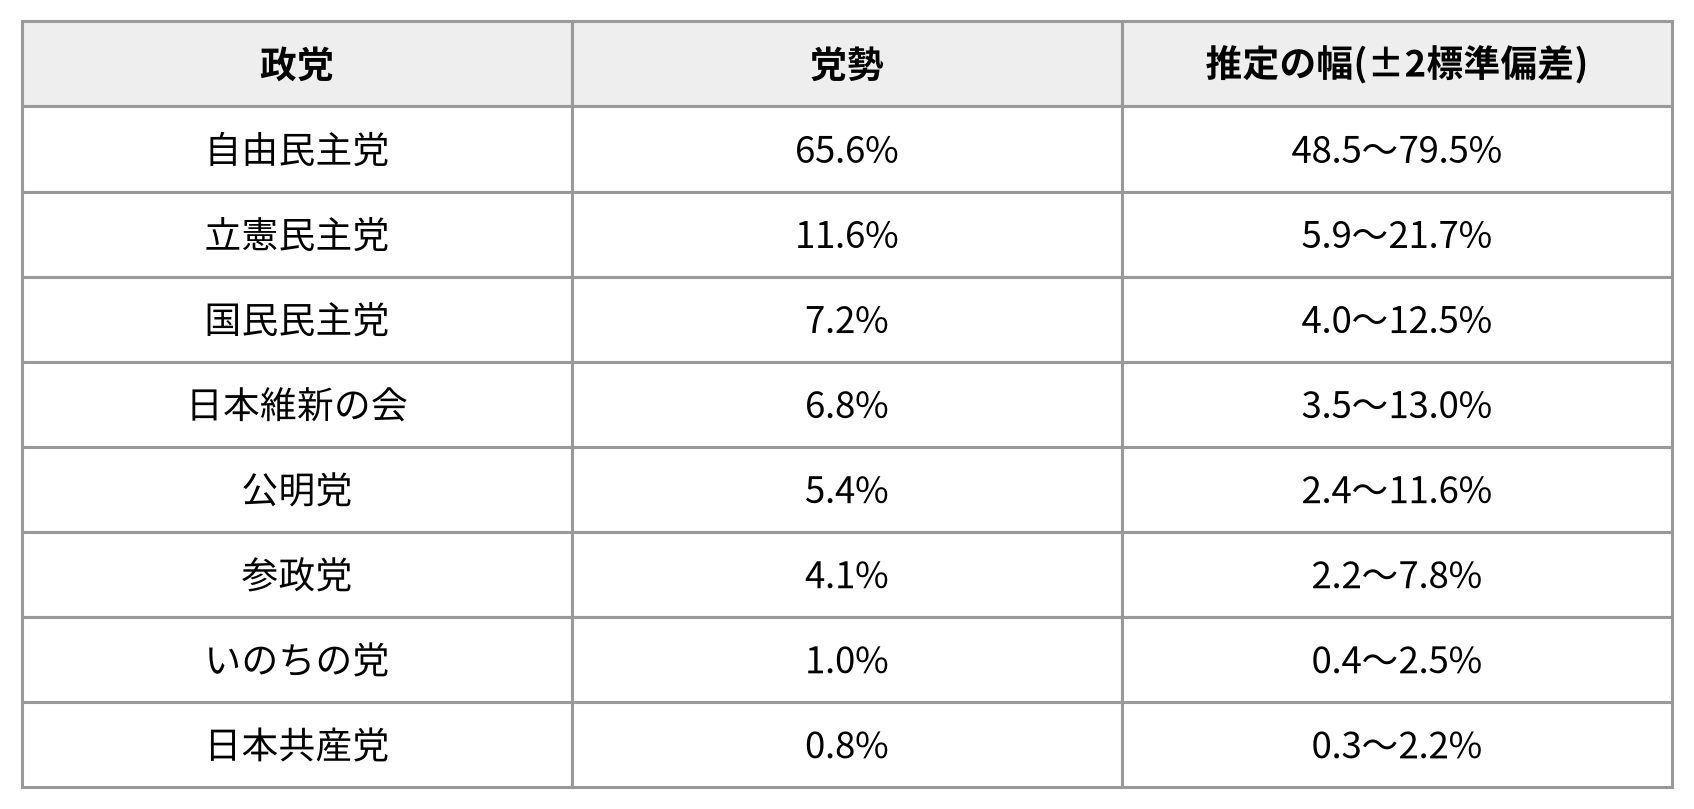
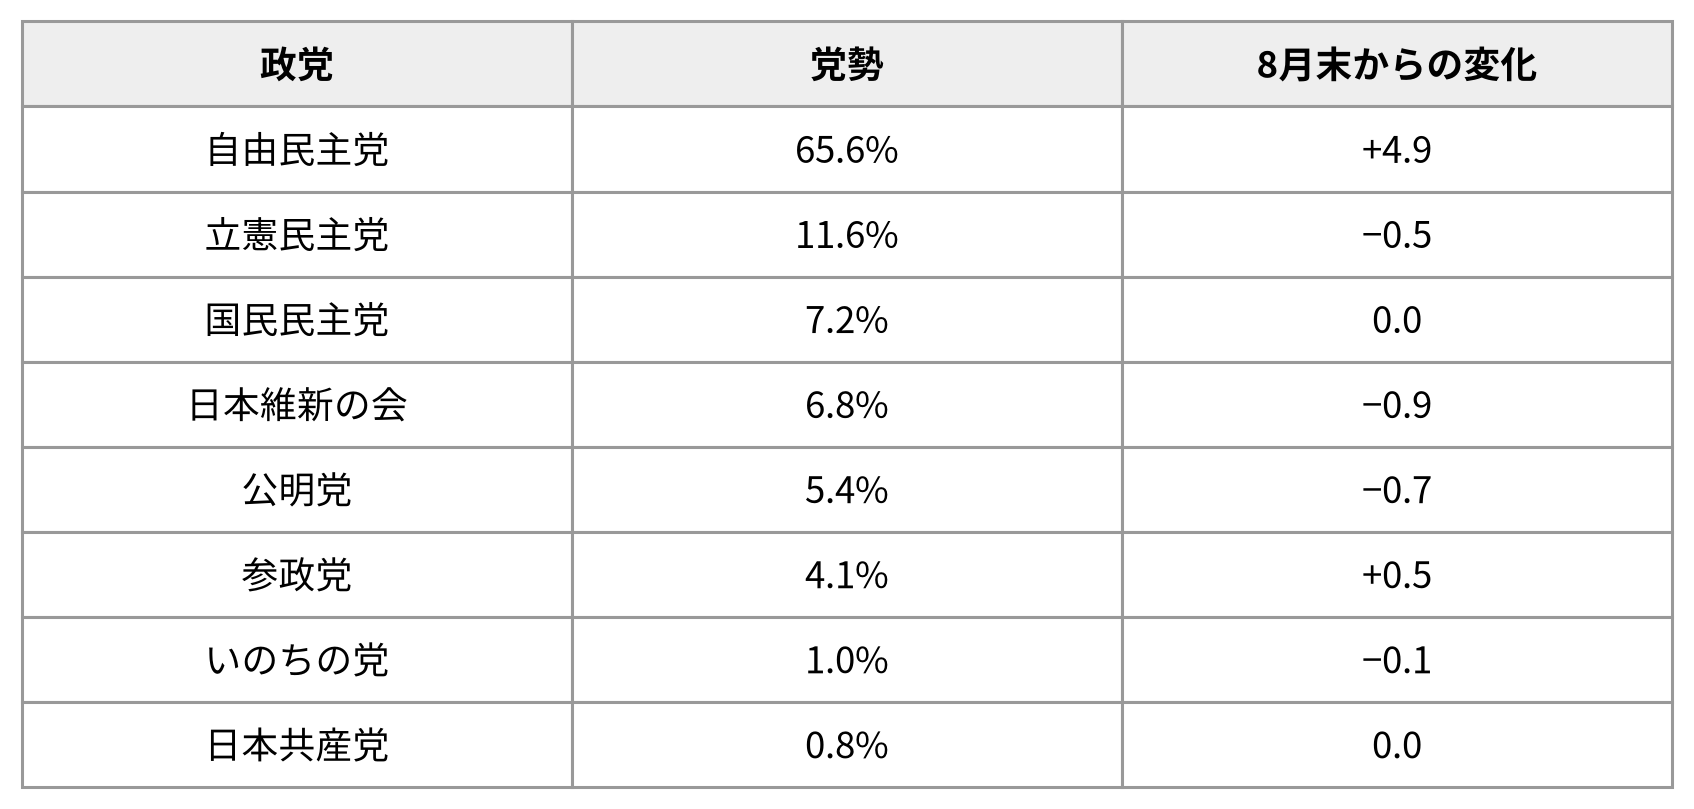
記事の表1を8月末からの変化に差し替え、公開版に合わせて著作権の節を加える

diff --git a/notes/trend_v2_draft.md b/notes/trend_v2_draft.md
@@ -41,21 +41,23 @@ v2のいちばんの売りは、当たり具合を確かめてあることです
 ![図1](images/trend_v2.png)
 *図1: 党勢指数v2の推移(1段目、その月までの選挙による値)、党勢の動きの選挙の種類ごとの内訳(2段目)、首相の在任期間(最下段)*
 
-1段目は各党の党勢を、衆院の議席率の尺度で同じ軸に描いたものです。v1と違い、政党どうしの高さを比べられます。各月の値は、過去の選挙だけからオンライン推定したものです。線は各党の最初の衆院選から描いています。それより前は、衆院の尺度に合わせる手がかりがないからです。2026年9月末の値は表1のとおりです。
+1段目は各党の党勢を、衆院の議席率の尺度で同じ軸に描いたものです。v1と違い、政党どうしの高さを比べられます。各月の値は、過去の選挙だけからオンライン推定したものです。線は各党の最初の衆院選から描いています。それより前は、衆院の尺度に合わせる手がかりがないからです。2026年9月末の値と8月末からの変化は表1のとおりです。
 
-| 政党 | 党勢 | 推定の幅(±2標準偏差) |
+| 政党 | 党勢 | 8月末からの変化 |
 |---|---|---|
-| 自由民主党 | 65.6% | 48.5〜79.5% |
-| 立憲民主党 | 11.6% | 5.9〜21.7% |
-| 国民民主党 | 7.2% | 4.0〜12.5% |
-| 日本維新の会 | 6.8% | 3.5〜13.0% |
-| 公明党 | 5.4% | 2.4〜11.6% |
-| 参政党 | 4.1% | 2.2〜7.8% |
-| いのちの党 | 1.0% | 0.4〜2.5% |
-| 日本共産党 | 0.8% | 0.3〜2.2% |
-*表1: 政党別の党勢指数v2(2026年9月末、衆院の議席率の尺度、その月までの選挙による値)*
+| 自由民主党 | 65.6% | +4.9 |
+| 立憲民主党 | 11.6% | −0.5 |
+| 国民民主党 | 7.2% | 0.0 |
+| 日本維新の会 | 6.8% | −0.9 |
+| 公明党 | 5.4% | −0.7 |
+| 参政党 | 4.1% | +0.5 |
+| いのちの党 | 1.0% | −0.1 |
+| 日本共産党 | 0.8% | 0.0 |
+*表1: 政党別の党勢指数v2(2026年9月末、衆院の議席率の尺度、その月までの選挙による値)と8月末からの変化(ポイント)*
 
-目を引くのは立憲民主党です。支持率(2.9%)では国民民主党や参政党を下回り、2026年衆院選でも当選者の出身で数えて21議席(4.6%)にとどまりました。それでも地方選挙では見込みどおりの結果を出し続けていて、党勢は衆院選の直後の8.6%から12%前後まで戻っています。地方の地盤は、野党の中でまだ最も厚いと言えます。ただ、その地盤は国政の結果に結びついていません。2026年衆院選を隠して地方選挙から推定すると26.3%になり、実際の4.6%と大きく食い違いました。また、国民民主党(7.2%)や日本維新の会(6.8%)とは推定の幅も重なっているため、党勢では野党第一党とまでは言えません。
+9月は自民党が4.9ポイント上がりました。9月13日の沖縄県の市町村議会選挙で見込みを大きく上回ったためで、宜野湾市議選だけで2.1ポイント押し上げています。
+
+目を引くのは立憲民主党です。支持率(2.9%)では国民民主党や参政党を下回り、2026年衆院選でも当選者の出身で数えて21議席(4.6%)にとどまりました。それでも地方選挙では見込みどおりの結果を出し続けていて、党勢は衆院選の直後の8.6%から12%前後まで戻っています。地方の地盤は、野党の中でまだ最も厚いと言えます。ただ、その地盤は国政の結果に結びついていません。2026年衆院選を隠して地方選挙から推定すると26.3%になり、実際の4.6%と大きく食い違いました。また、国民民主党(7.2%)や日本維新の会(6.8%)とは推定の幅(図2)も重なっているため、党勢では野党第一党とまでは言えません。
 
 ![図2](images/trend_v2_by_party.png)
 *図2: 政党別の党勢指数v2。帯は推定の幅(±2標準偏差)、●は衆院選、□は参院選(衆院の尺度に換算)、×はその選挙を隠して推定した値*
@@ -89,6 +91,10 @@ v2では党勢の動きをランダムウォーク、つまり過去の動きか
 政党支持率との比較(図3)も毎月続けます。選挙から推定した党勢と世論調査の支持率がどこで食い違うかを見ることで、今回の立憲民主党のように、地方の地盤と有権者の気分のずれが見えてきます。
 
 モデルの詳しい定義と検証は[設計文書](https://github.com/hrkimura/seiryoku-shisu/blob/master/notes/trend_model.pdf)に、算出コードは[GitHub](https://github.com/hrkimura/seiryoku-shisu)にあります。
+
+## 著作権について
+
+算出コードはMITライセンスで公開し、自由に使ってもらって構いません。ただしこの記事や設計文書など、文章そのものの著作権は放棄していません。
 
 ## AI活用について
 

diff --git a/notes/trend_v2_draft_for_note.md b/notes/trend_v2_draft_for_note.md
@@ -41,12 +41,14 @@ v2のいちばんの売りは、当たり具合を確かめてあることです
 [ここに画像: trend_v2.png]
 [キャプション: 図1: 党勢指数v2の推移(1段目、その月までの選挙による値)、党勢の動きの選挙の種類ごとの内訳(2段目)、首相の在任期間(最下段)]
 
-1段目は各党の党勢を、衆院の議席率の尺度で同じ軸に描いたものです。v1と違い、政党どうしの高さを比べられます。各月の値は、過去の選挙だけからオンライン推定したものです。線は各党の最初の衆院選から描いています。それより前は、衆院の尺度に合わせる手がかりがないからです。2026年9月末の値は表1のとおりです。
+1段目は各党の党勢を、衆院の議席率の尺度で同じ軸に描いたものです。v1と違い、政党どうしの高さを比べられます。各月の値は、過去の選挙だけからオンライン推定したものです。線は各党の最初の衆院選から描いています。それより前は、衆院の尺度に合わせる手がかりがないからです。2026年9月末の値と8月末からの変化は表1のとおりです。
 
 [ここに画像: trend_v2_table1.png]
-[キャプション: 表1: 政党別の党勢指数v2(2026年9月末、衆院の議席率の尺度、その月までの選挙による値)]
+[キャプション: 表1: 政党別の党勢指数v2(2026年9月末、衆院の議席率の尺度、その月までの選挙による値)と8月末からの変化(ポイント)]
 
-目を引くのは立憲民主党です。支持率(2.9%)では国民民主党や参政党を下回り、2026年衆院選でも当選者の出身で数えて21議席(4.6%)にとどまりました。それでも地方選挙では見込みどおりの結果を出し続けていて、党勢は衆院選の直後の8.6%から12%前後まで戻っています。地方の地盤は、野党の中でまだ最も厚いと言えます。ただ、その地盤は国政の結果に結びついていません。2026年衆院選を隠して地方選挙から推定すると26.3%になり、実際の4.6%と大きく食い違いました。また、国民民主党(7.2%)や日本維新の会(6.8%)とは推定の幅も重なっているため、党勢では野党第一党とまでは言えません。
+9月は自民党が4.9ポイント上がりました。9月13日の沖縄県の市町村議会選挙で見込みを大きく上回ったためで、宜野湾市議選だけで2.1ポイント押し上げています。
+
+目を引くのは立憲民主党です。支持率(2.9%)では国民民主党や参政党を下回り、2026年衆院選でも当選者の出身で数えて21議席(4.6%)にとどまりました。それでも地方選挙では見込みどおりの結果を出し続けていて、党勢は衆院選の直後の8.6%から12%前後まで戻っています。地方の地盤は、野党の中でまだ最も厚いと言えます。ただ、その地盤は国政の結果に結びついていません。2026年衆院選を隠して地方選挙から推定すると26.3%になり、実際の4.6%と大きく食い違いました。また、国民民主党(7.2%)や日本維新の会(6.8%)とは推定の幅(図2)も重なっているため、党勢では野党第一党とまでは言えません。
 
 [ここに画像: trend_v2_by_party.png]
 [キャプション: 図2: 政党別の党勢指数v2。帯は推定の幅(±2標準偏差)、●は衆院選、□は参院選(衆院の尺度に換算)、×はその選挙を隠して推定した値]
@@ -80,6 +82,10 @@ v2では党勢の動きをランダムウォーク、つまり過去の動きか
 政党支持率との比較(図3)も毎月続けます。選挙から推定した党勢と世論調査の支持率がどこで食い違うかを見ることで、今回の立憲民主党のように、地方の地盤と有権者の気分のずれが見えてきます。
 
 モデルの詳しい定義と検証は[設計文書](https://github.com/hrkimura/seiryoku-shisu/blob/master/notes/trend_model.pdf)に、算出コードは[GitHub](https://github.com/hrkimura/seiryoku-shisu)にあります。
+
+## 著作権について
+
+算出コードはMITライセンスで公開し、自由に使ってもらって構いません。ただしこの記事や設計文書など、文章そのものの著作権は放棄していません。
 
 ## AI活用について
 
